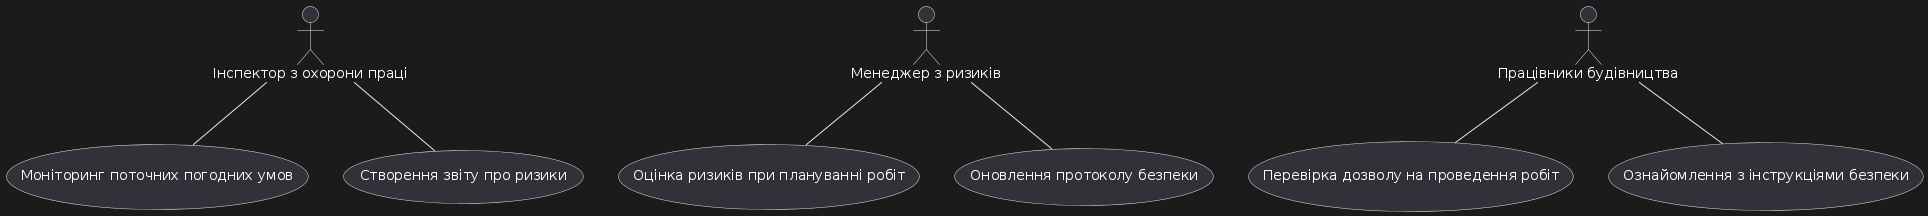
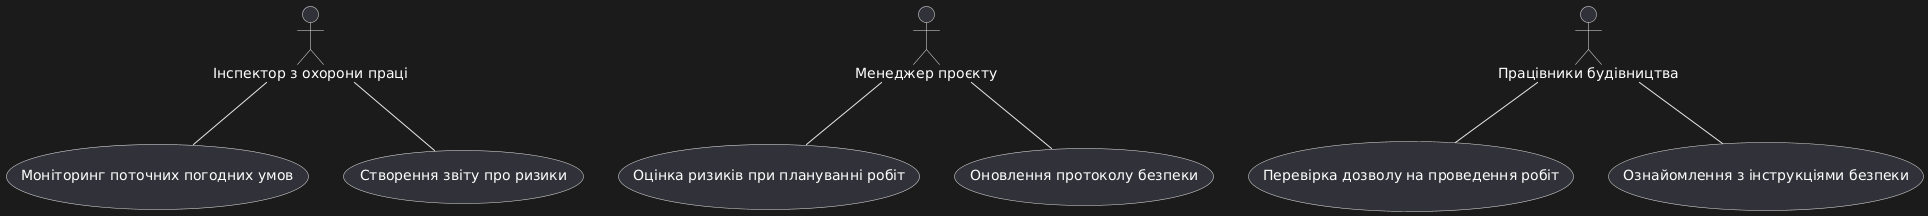
update

diff --git a/1-Requirements/1.2-UseCaseDiagram/README.md b/1-Requirements/1.2-UseCaseDiagram/README.md
@@ -1,7 +1,7 @@
 ## діаграма варіантів використання
 @startuml
 actor "Інспектор з охорони праці" as Inspector
-actor "Менеджер з ризиків" as RiskManager
+actor "Менеджер проєкту" as Manager
 actor "Працівники будівництва" as Workers
 
 usecase "Моніторинг поточних погодних умов" as UC1
@@ -13,8 +13,8 @@ usecase "Ознайомлення з інструкціями безпеки" as
 
 Inspector -- UC1
 Inspector -- UC2
-RiskManager -- UC3
-RiskManager -- UC4
+Manager -- UC3
+Manager -- UC4
 Workers -- UC5
 Workers -- UC6
 @enduml
